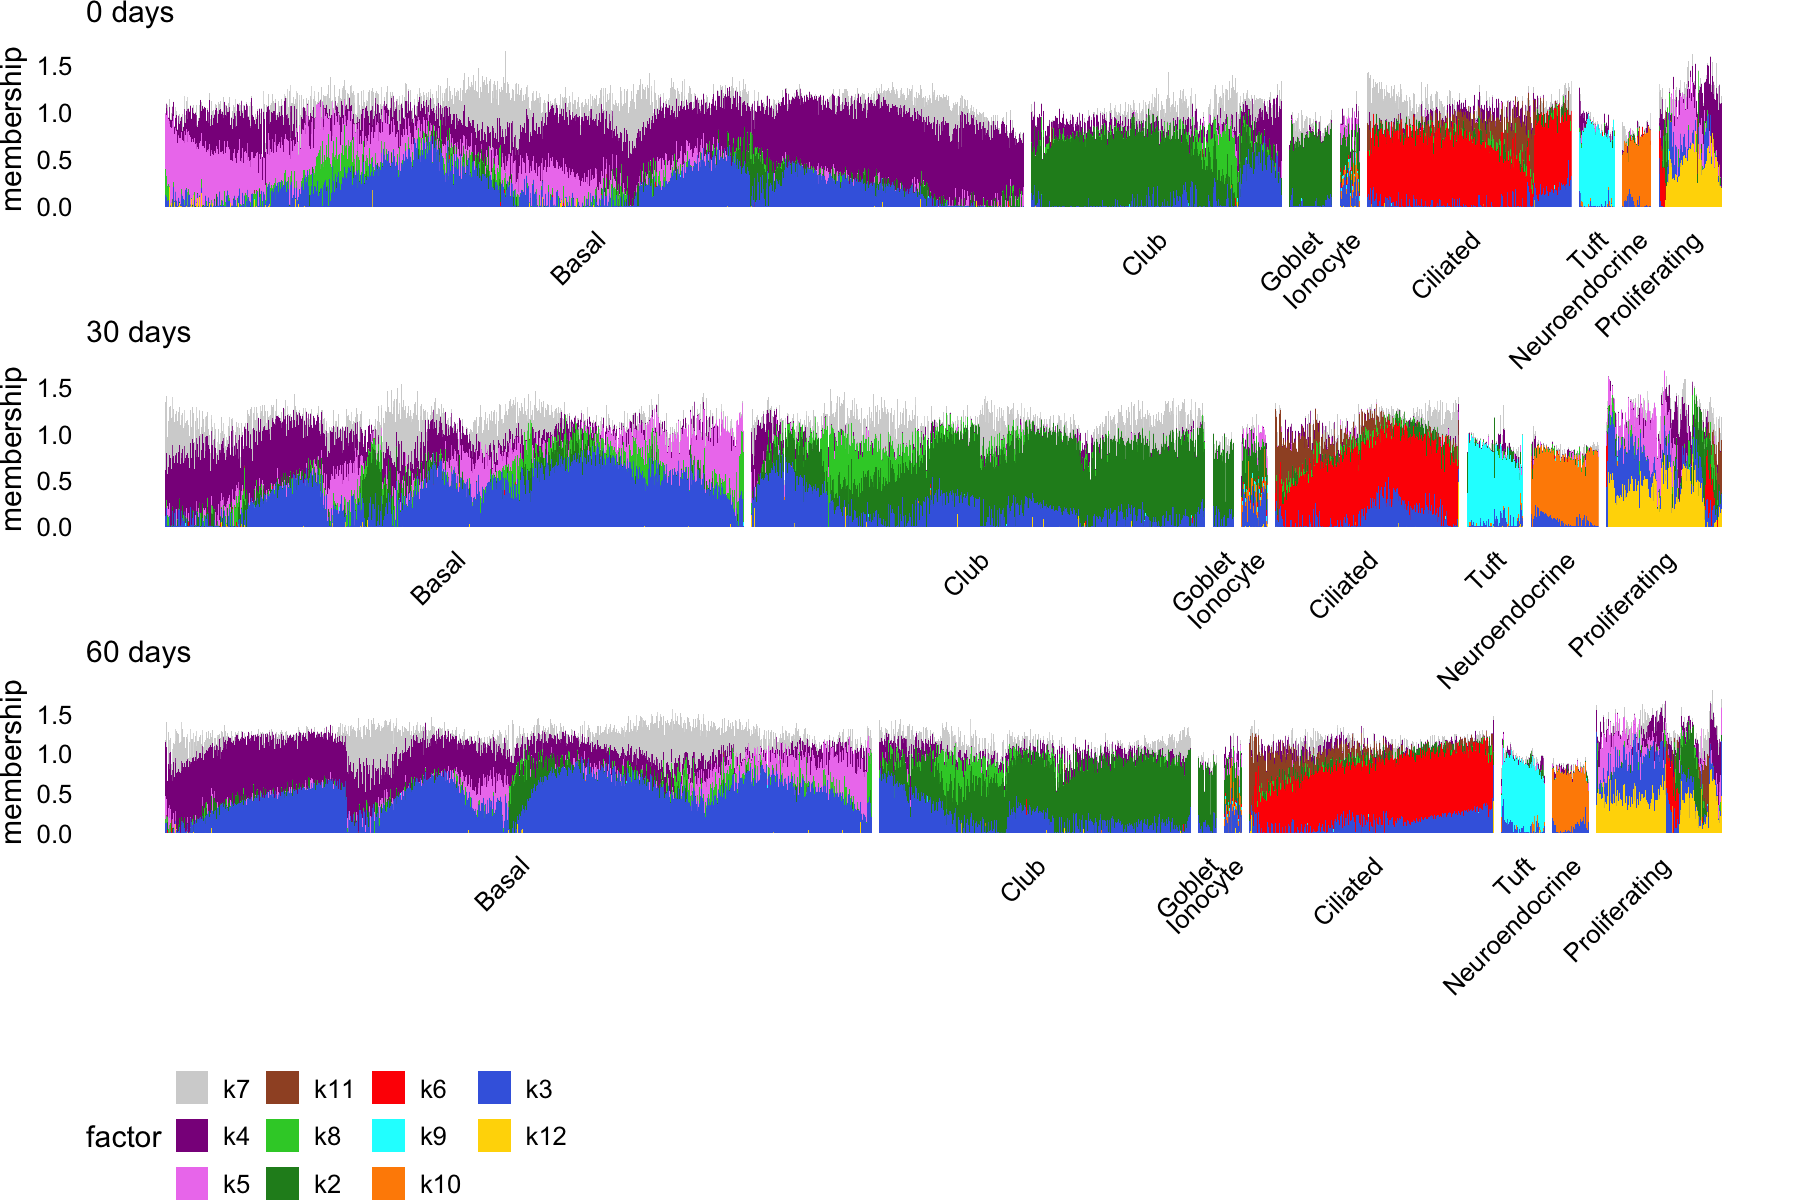
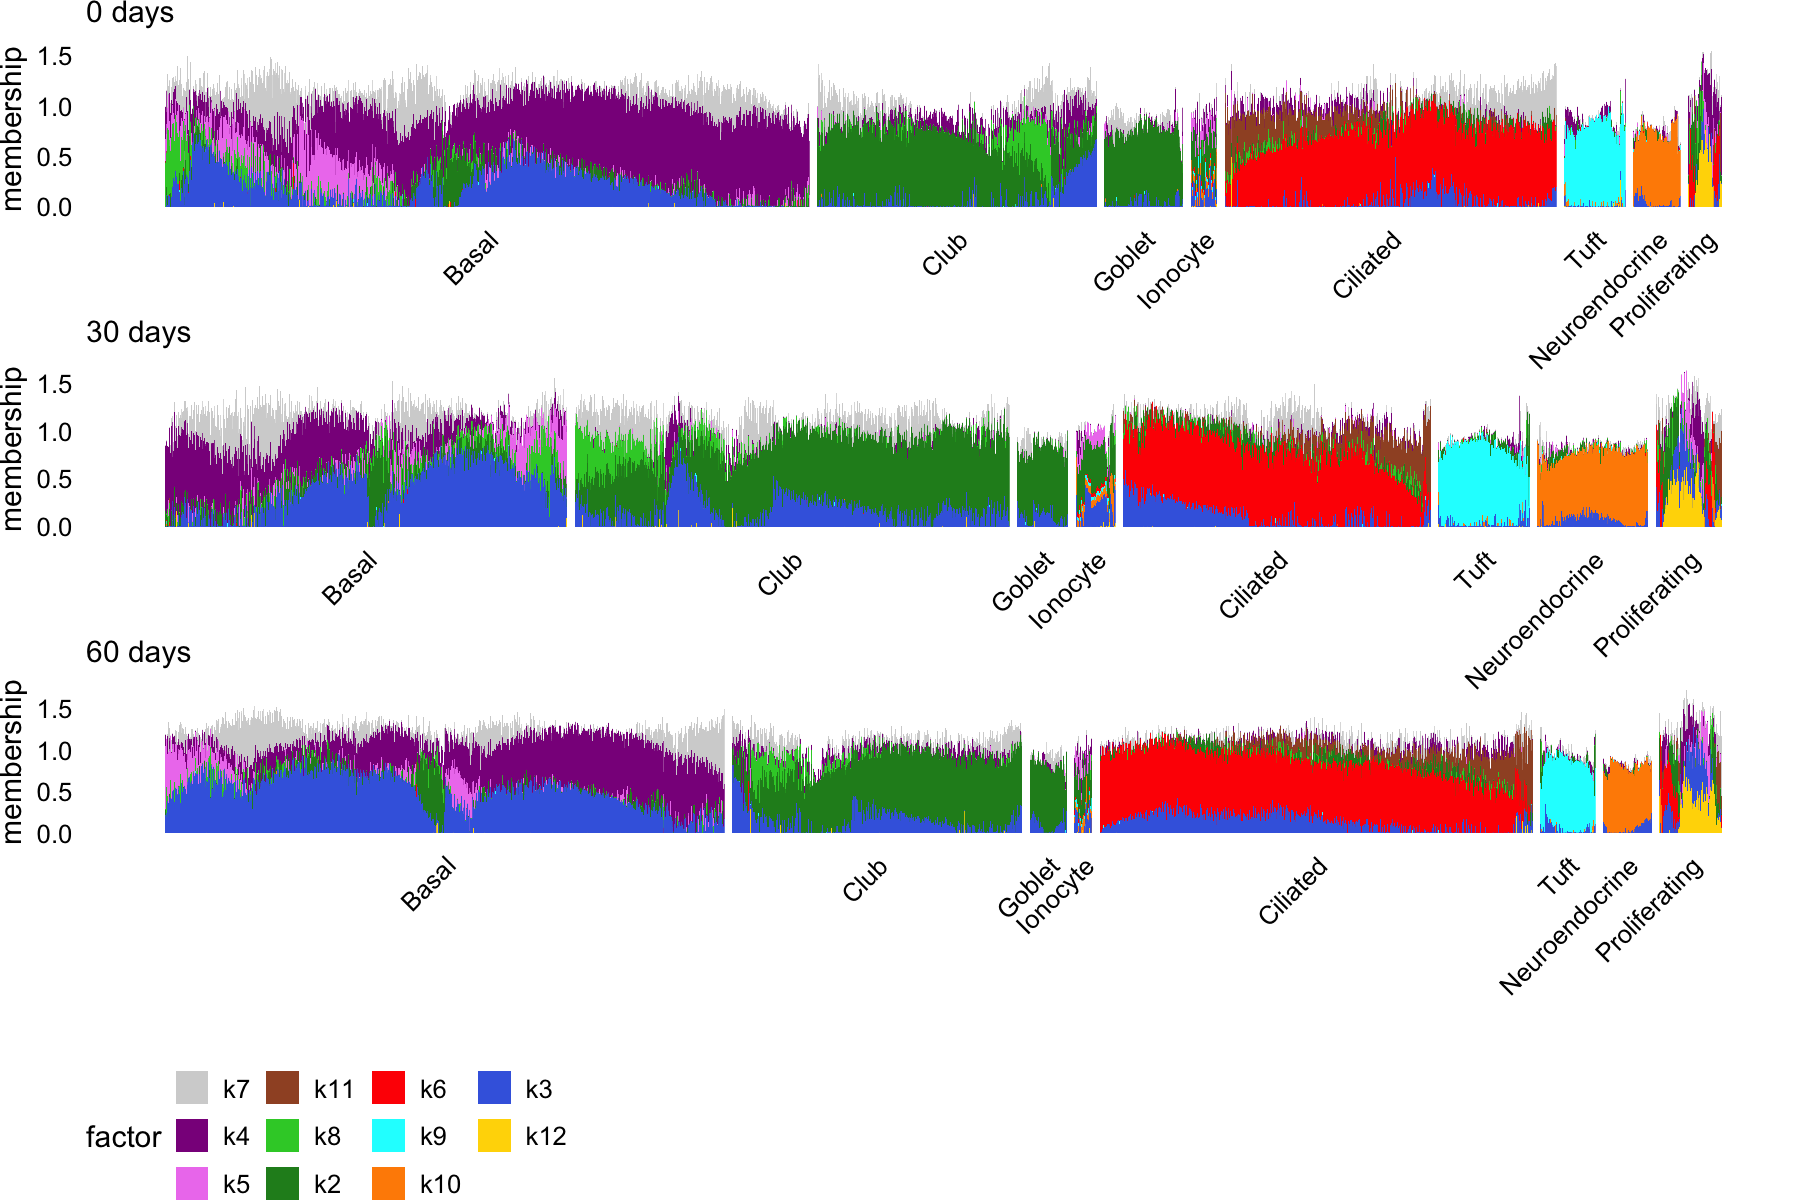
Build site.

diff --git a/docs/montoro_plots.html b/docs/montoro_plots.html
@@ -432,15 +432,15 @@ project makes it easier to run your code on other machines.</p>
 <div class="panel panel-default">
 <div class="panel-heading">
 <p class="panel-title">
-<a data-toggle="collapse" data-parent="#workflowr-checks" href="#strongRepositoryversionstrongahrefhttpsgithubcomwillwerscheidebnmfpapertree76fce325ac58f56de5b5e5e66078af60302c4645targetblank76fce32a">
+<a data-toggle="collapse" data-parent="#workflowr-checks" href="#strongRepositoryversionstrongahrefhttpsgithubcomwillwerscheidebnmfpapertree623d01526f9e209b81803bd7b8e89f488d9a4971targetblank623d015a">
 <span class="glyphicon glyphicon-ok text-success"
 aria-hidden="true"></span> <strong>Repository version:</strong>
-<a href="https://github.com/willwerscheid/ebnmf-paper/tree/76fce325ac58f56de5b5e5e66078af60302c4645" target="_blank">76fce32</a>
+<a href="https://github.com/willwerscheid/ebnmf-paper/tree/623d01526f9e209b81803bd7b8e89f488d9a4971" target="_blank">623d015</a>
 </a>
 </p>
 </div>
 <div
[2 lines of base64/hex data omitted]
 class="panel-collapse collapse">
 <div class="panel-body">
 <p>
@@ -450,7 +450,7 @@ reproducibility.
 </p>
 <p>
 The results in this page were generated with repository version
-<a href="https://github.com/willwerscheid/ebnmf-paper/tree/76fce325ac58f56de5b5e5e66078af60302c4645" target="_blank">76fce32</a>.
+<a href="https://github.com/willwerscheid/ebnmf-paper/tree/623d01526f9e209b81803bd7b8e89f488d9a4971" target="_blank">623d015</a>.
 See the <em>Past versions</em> tab to see a history of the changes made
 to the R Markdown and HTML files.
 </p>
@@ -521,6 +521,40 @@ Message
 </tr>
 </thead>
 <tbody>
+<tr>
+<td>
+Rmd
+</td>
+<td>
+<a href="https://github.com/willwerscheid/ebnmf-paper/blob/623d01526f9e209b81803bd7b8e89f488d9a4971/analysis/montoro_plots.Rmd" target="_blank">623d015</a>
+</td>
+<td>
+Peter Carbonetto
+</td>
+<td>
+2026-09-01
+</td>
+<td>
+wflow_publish("analysis/montoro_plots.Rmd", verbose = T, view = F)
+</td>
+</tr>
+<tr>
+<td>
+html
+</td>
+<td>
+<a href="https://rawcdn.githack.com/willwerscheid/ebnmf-paper/aed340f13a7e787f5c7f8d20e23e7edfceb09ad9/docs/montoro_plots.html" target="_blank">aed340f</a>
+</td>
+<td>
+Peter Carbonetto
+</td>
+<td>
+2026-09-01
+</td>
+<td>
+Build site.
+</td>
+</tr>
 <tr>
 <td>
 Rmd
@@ -1062,9 +1096,13 @@ F &lt;- fl_k12$fl_ldf$F
 F &lt;- scale_cols(F)
 colnames(L) &lt;- paste0(&quot;k&quot;,1:12)
 colnames(F) &lt;- paste0(&quot;k&quot;,1:12)
-rows &lt;- c(sample(which(celltypes == &quot;Basal&quot;),10000),
-          sample(which(celltypes == &quot;Club&quot;),5000),
-          which(celltypes != &quot;Basal&quot; &amp; celltypes != &quot;Club&quot;))
+rows &lt;- c(sample(which(celltypes == &quot;Basal&quot; &amp;
+                       meta_data$lineage == &quot;Tom&quot;),4000),
+          sample(which(celltypes == &quot;Club&quot; &amp;
+                       meta_data$lineage == &quot;Tom&quot;),2500),
+          which(celltypes != &quot;Basal&quot; &amp;
+                celltypes != &quot;Club&quot; &amp;
+                meta_data$lineage == &quot;Tom&quot;))
 rows &lt;- sort(rows)
 F &lt;- F[rows,]
 celltypes &lt;- celltypes[rows]
@@ -1127,6 +1165,11 @@ Peter Carbonetto
 </table>
 </div>
 </div>
+<p>Structure plot merging the three time points:</p>
+<pre class="r"><code>structure_plot(F,grouping = celltypes,gap = 10,topics = factors_to_plot,
+               colors = factor_colors) +
+  labs(y = &quot;membership&quot;,title = &quot;0-60 days&quot;)</code></pre>
+<p><img src="figure/montoro_plots.Rmd/another-structure-plot-k12-1.png" width="900" style="display: block; margin: auto;" /></p>
 </div>
 <div id="ebnmf-with-40-factors" class="section level2">
 <h2>EBNMF with 40 factors</h2>
@@ -1385,6 +1428,11 @@ Peter Carbonetto
 </table>
 </div>
 </div>
+<p>Structure plot merging the three time points:</p>
+<pre class="r"><code>structure_plot(F,grouping = celltypes,gap = 8,topics = celltype_factors,
+               colors = factor_colors) +
+  labs(y = &quot;membership&quot;,fill = &quot;factor&quot;,title = &quot;0-60 days&quot;)</code></pre>
+<p><img src="figure/montoro_plots.Rmd/another-structure-plot-k40-1.png" width="900" style="display: block; margin: auto;" /></p>
 <br>
 <p>
 <button type="button" class="btn btn-default btn-workflowr btn-workflowr-sessioninfo" data-toggle="collapse" data-target="#workflowr-sessioninfo" style="display: block;">
